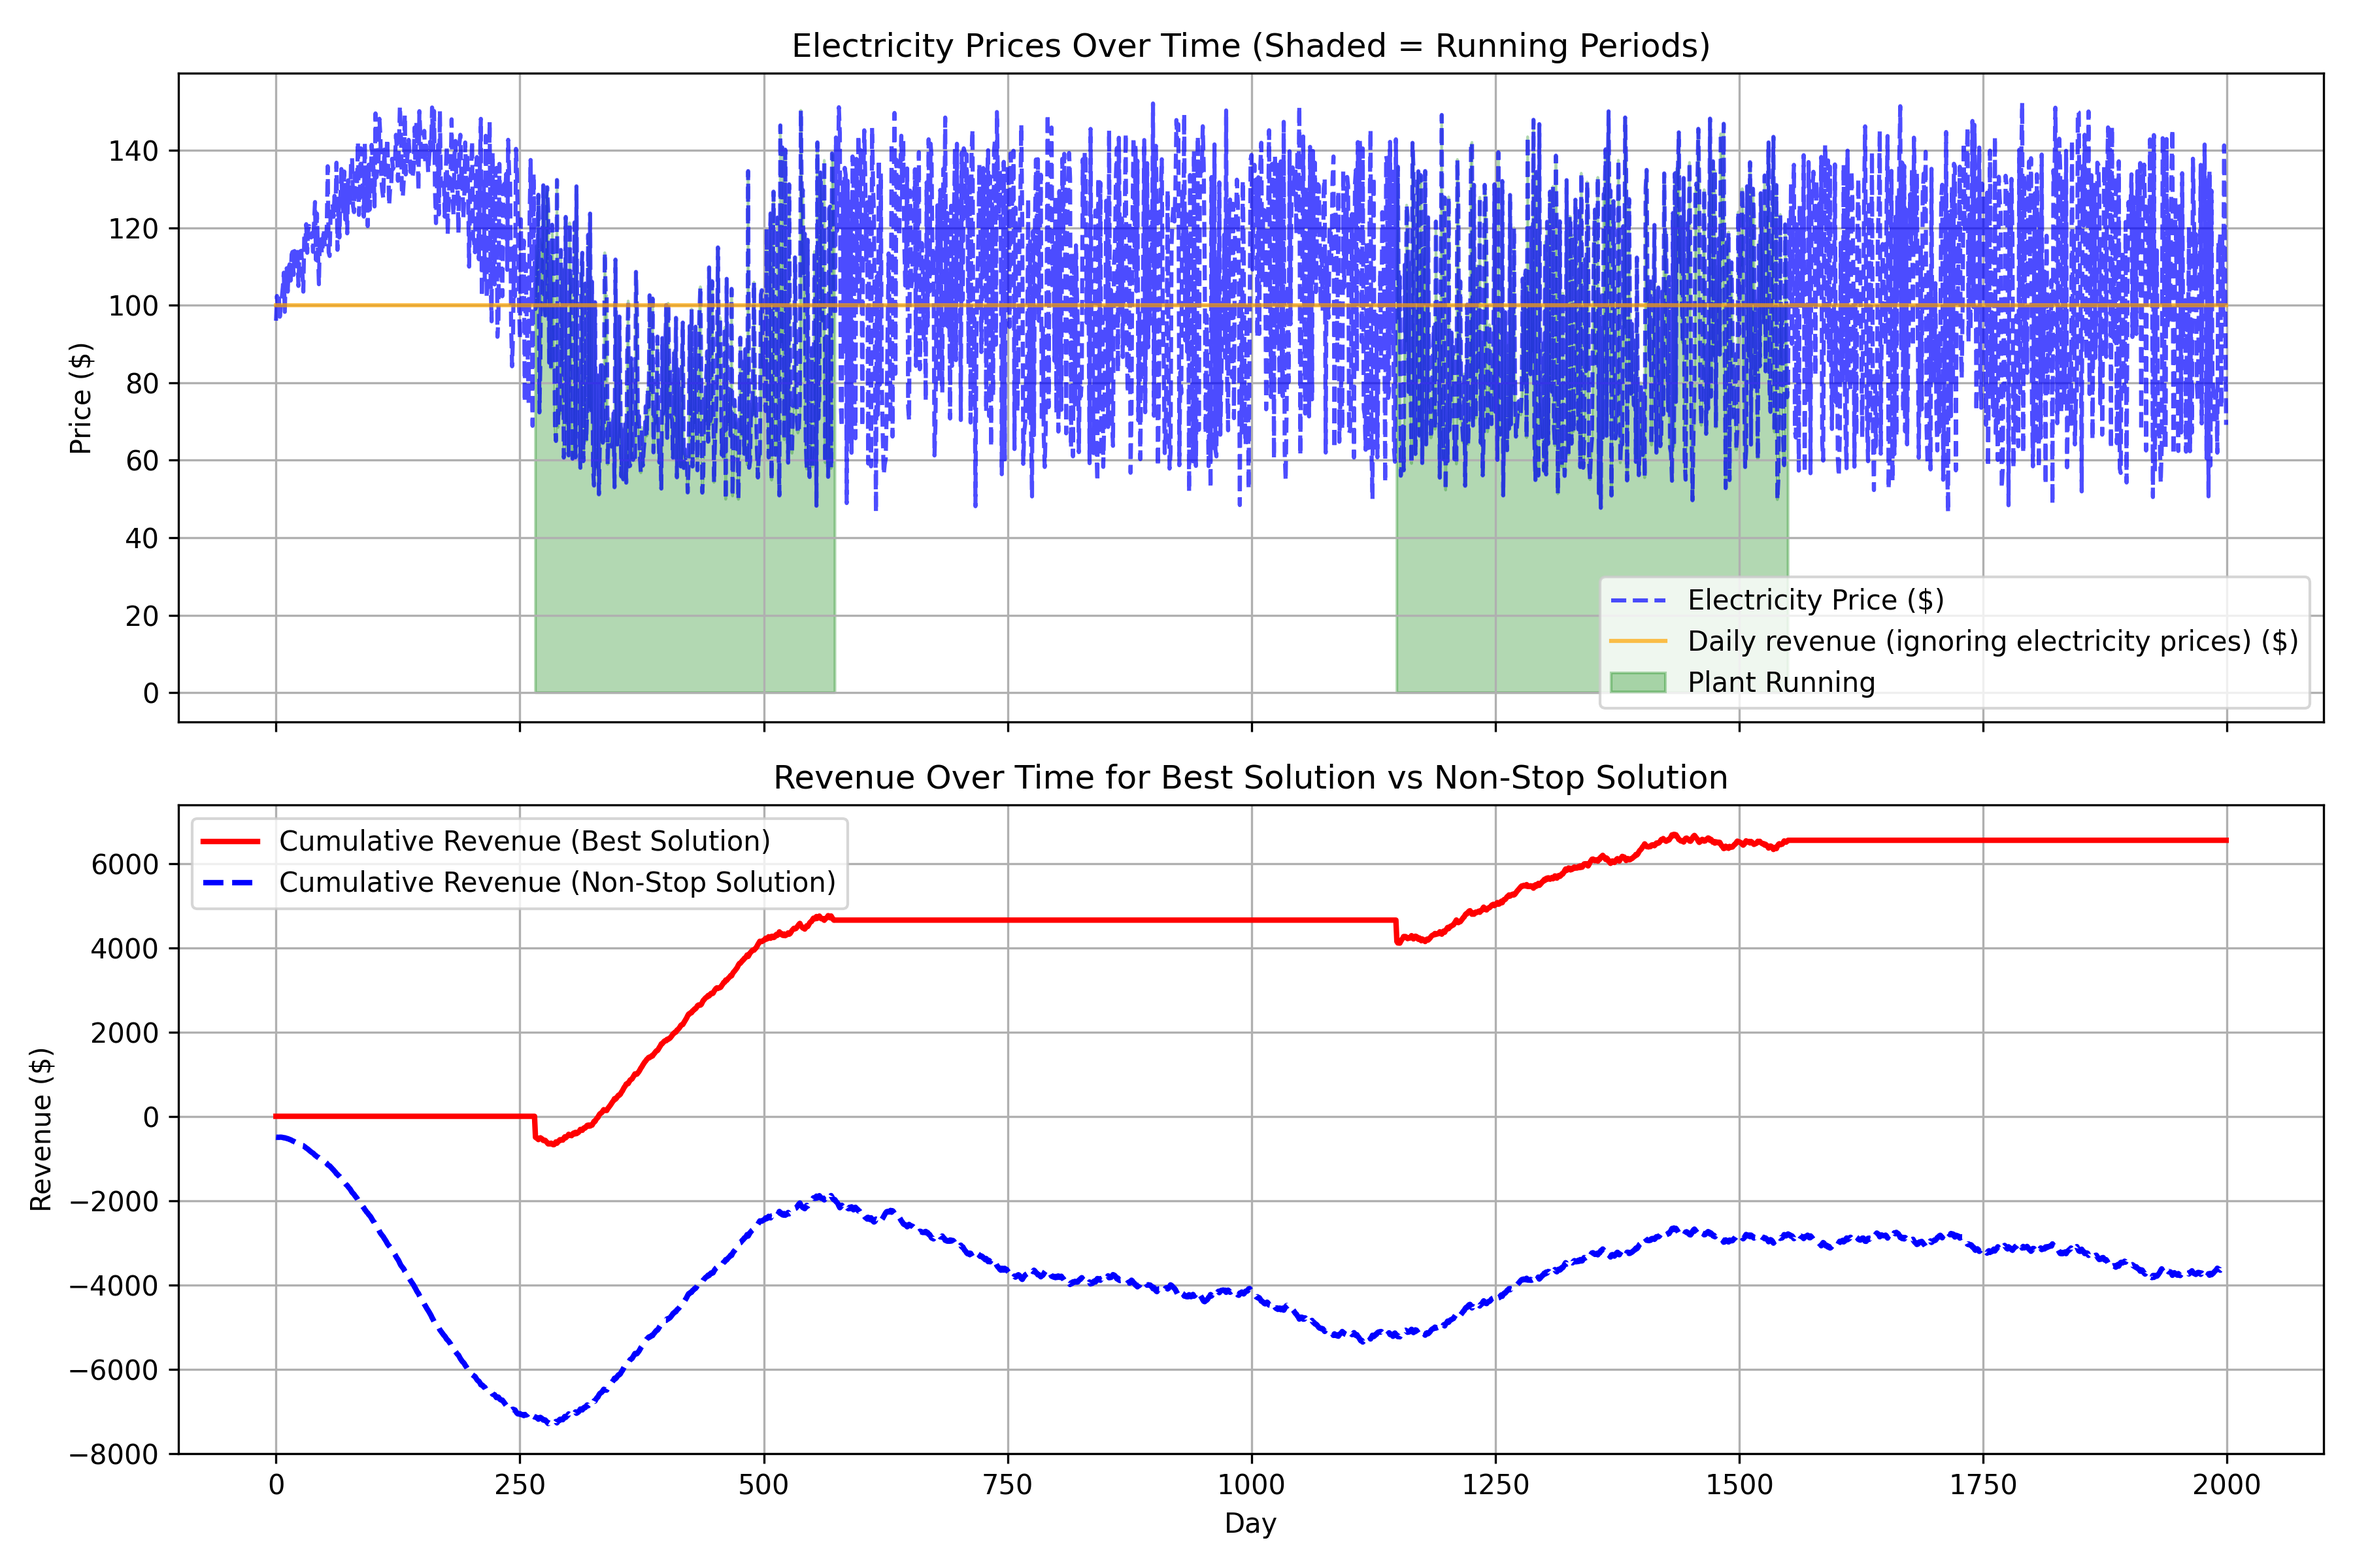
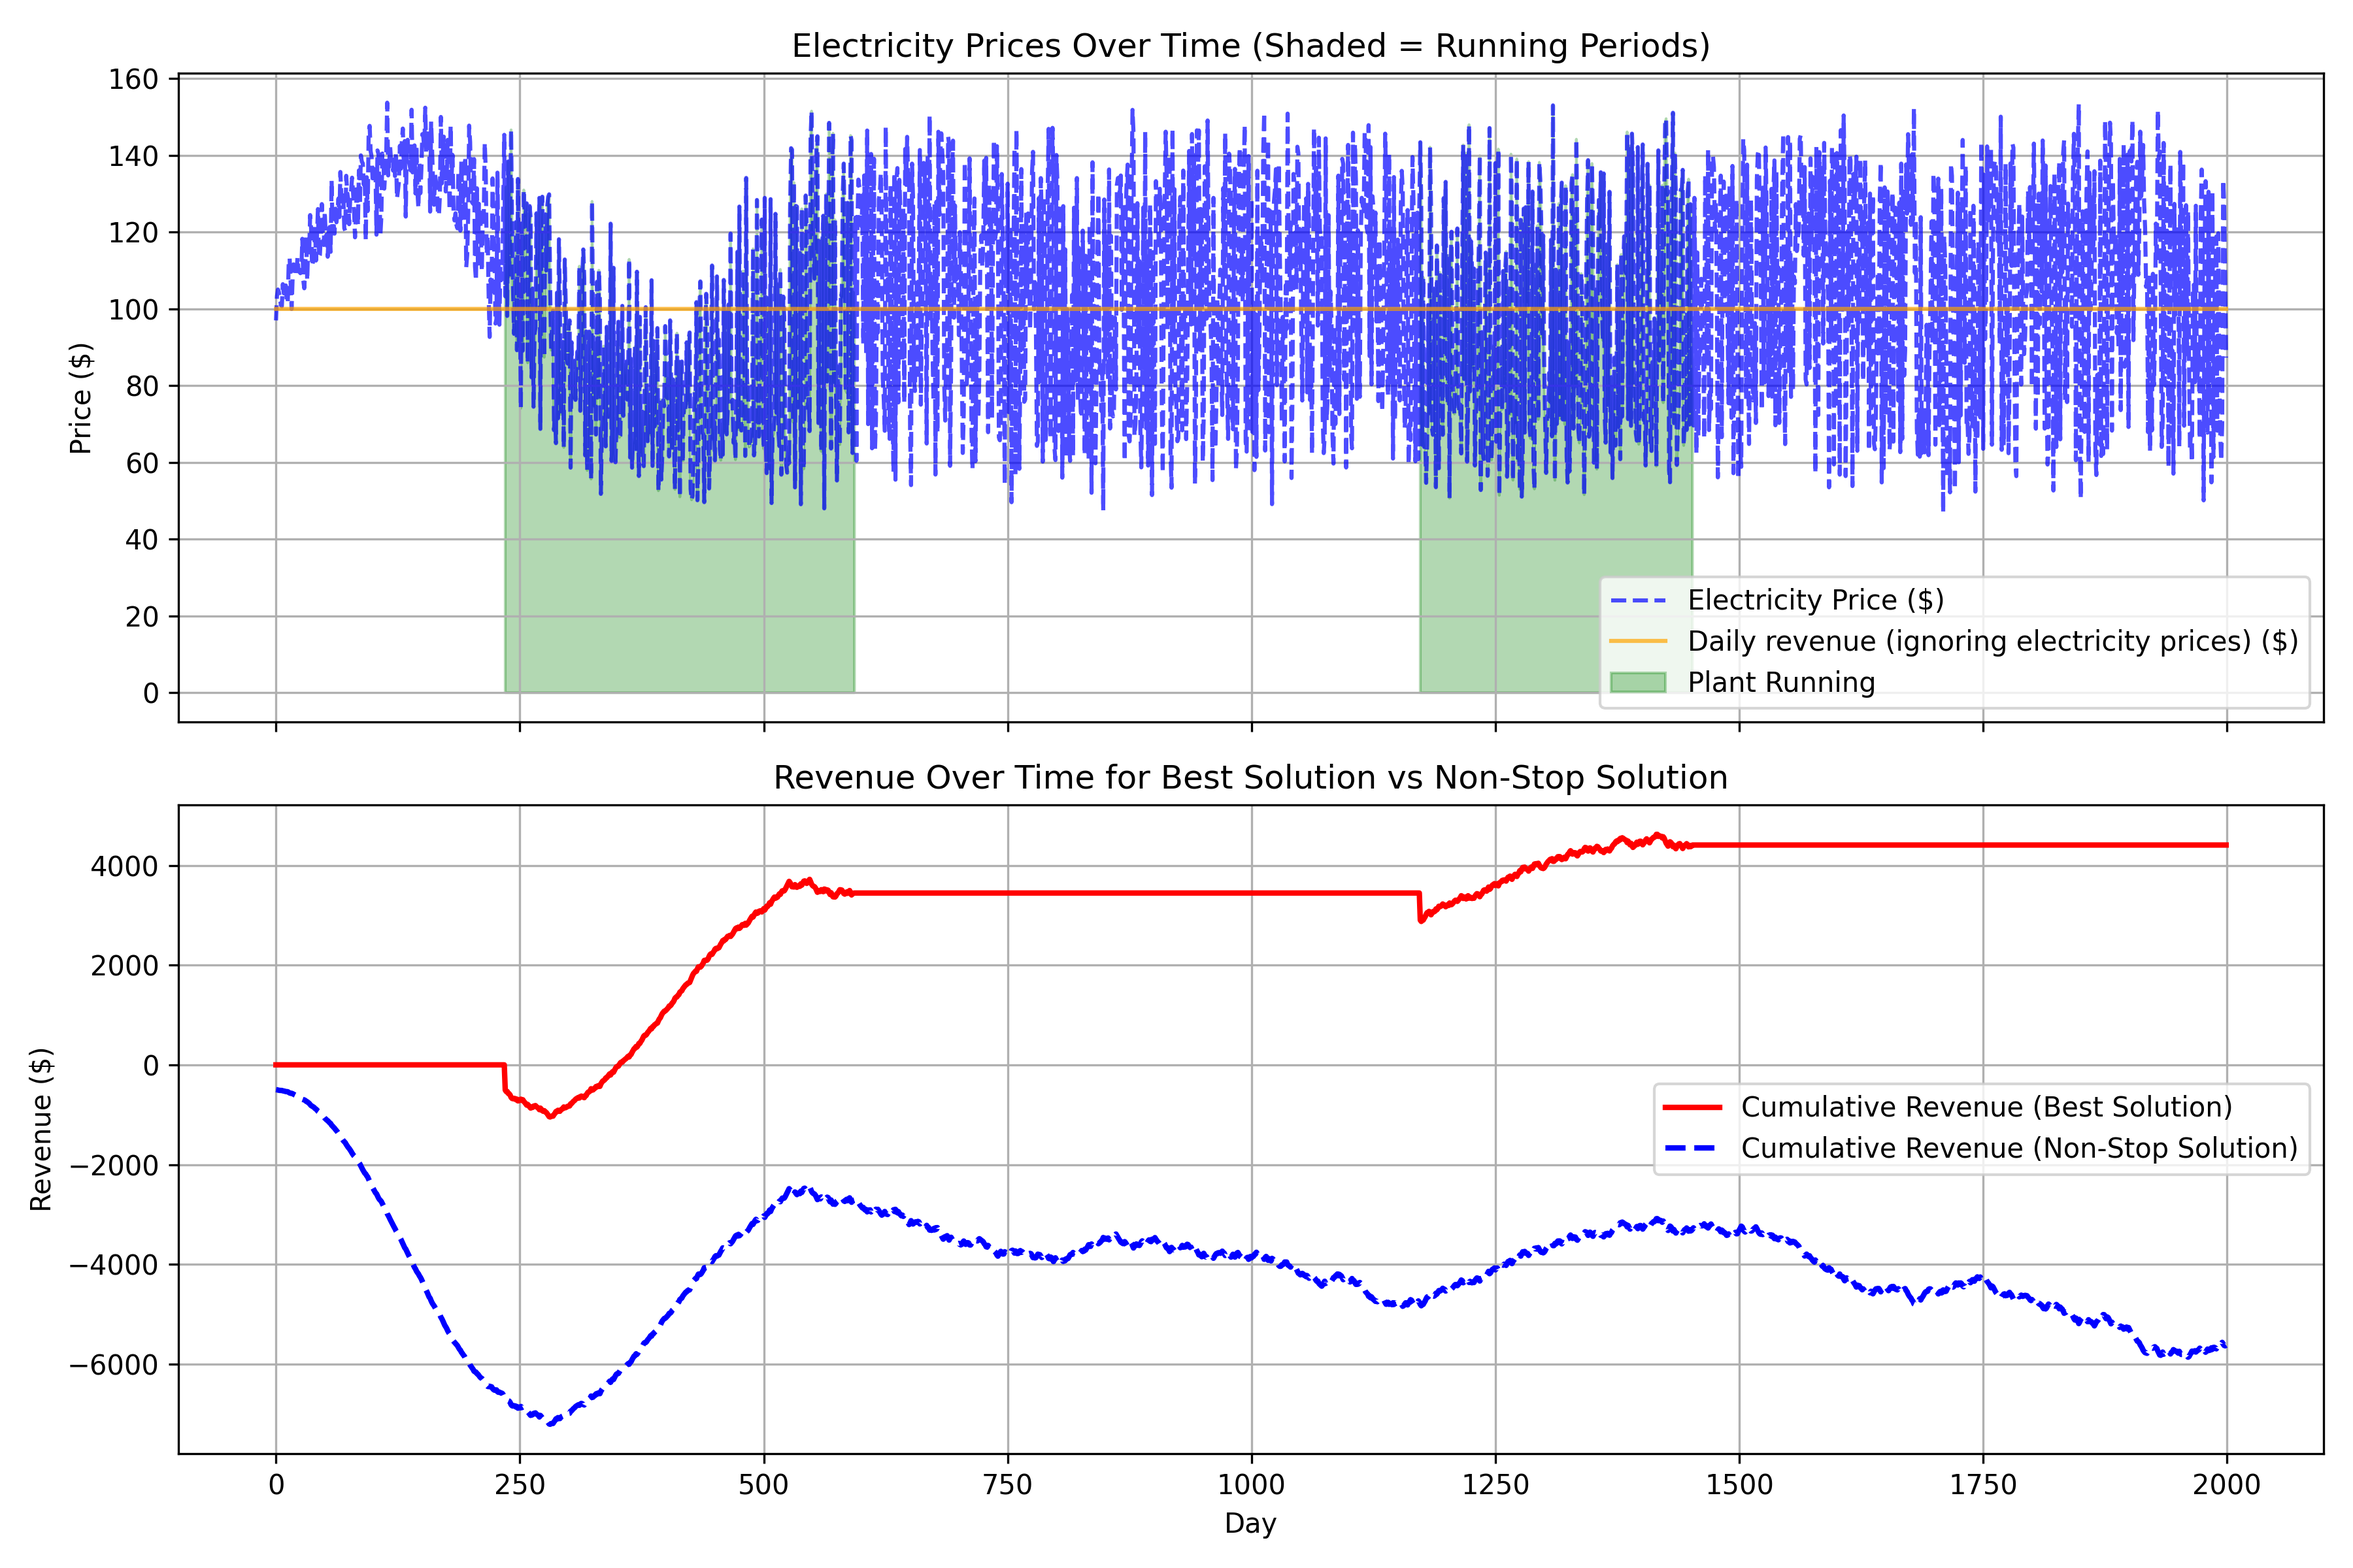
Punishes frequently switching solutions

diff --git a/pygad_plant_sim.py b/pygad_plant_sim.py
@@ -9,11 +9,11 @@ import os
 N = 2000  # Number of available items (days)
 restart_cost = 500  # Cost to restart the plant after it being shut down
 prod_per_day = 100  # Revenue from a running day (smallest possible time frame)
-switch_constant = 10  # If a solution has frequent switches, we will not prioritize it
-switch_fitness_decrement = 1000  # Decrease a solution's fitness by this if it has frequent switches
+shutdown_constant = 20  # Very short period for the plant to stay shut down
+switch_fitness_decrement = 1000  # Decrease a solution's fitness by this if it stays shut down for very short periods
 
 # List of electricity prices (randomized for testing)
-random.seed(1)
+random.seed(69)
 # Fuzzy sine wave
 prices = [100 + random.uniform(30, 50)*math.sin((i/80)*random.uniform(0.6, 1.2)) + random.randint(-5, 5) for i in range(N)]
 
@@ -28,27 +28,27 @@ def fitness_func(ga_instance, solution, solution_idx, return_revenue_curve=False
     fitness = 0
     running = False  # Plant starts off
     revenue_over_time = []  # Track revenue per day
-    last_switch = 0  # Track state switching frequency
+    shutdown_tracker = 0
 
     for idx in range(N):
         if binary_solution[idx]:  # If the plant is running
             if not running:  # If restarting
                 revenue -= restart_cost
                 running = True
-                if last_switch < switch_constant:  # If the solution switches the state too abruptly, decrease fitness
+                if shutdown_tracker < shutdown_constant:  # If the plant was shut down for a really short period
                     fitness -= switch_fitness_decrement
             revenue += prod_per_day  # Add revenue
             revenue -= prices[idx]  # Subtract electricity cost
-            last_switch += 1
+            shutdown_tracker = 0  # Reset number of inactive days
         else:
             running = False  # The plant is off
-            last_switch = 0
+            shutdown_tracker += 1  # Update number of inactive days in a row
 
         revenue_over_time.append(revenue)  # Store cumulative revenue
 
     fitness += revenue
 
-    return (revenue, revenue_over_time) if return_revenue_curve else revenue
+    return (revenue, revenue_over_time) if return_revenue_curve else fitness
 
 
 # ======================== CUSTOM MUTATION FUNCTION ========================
